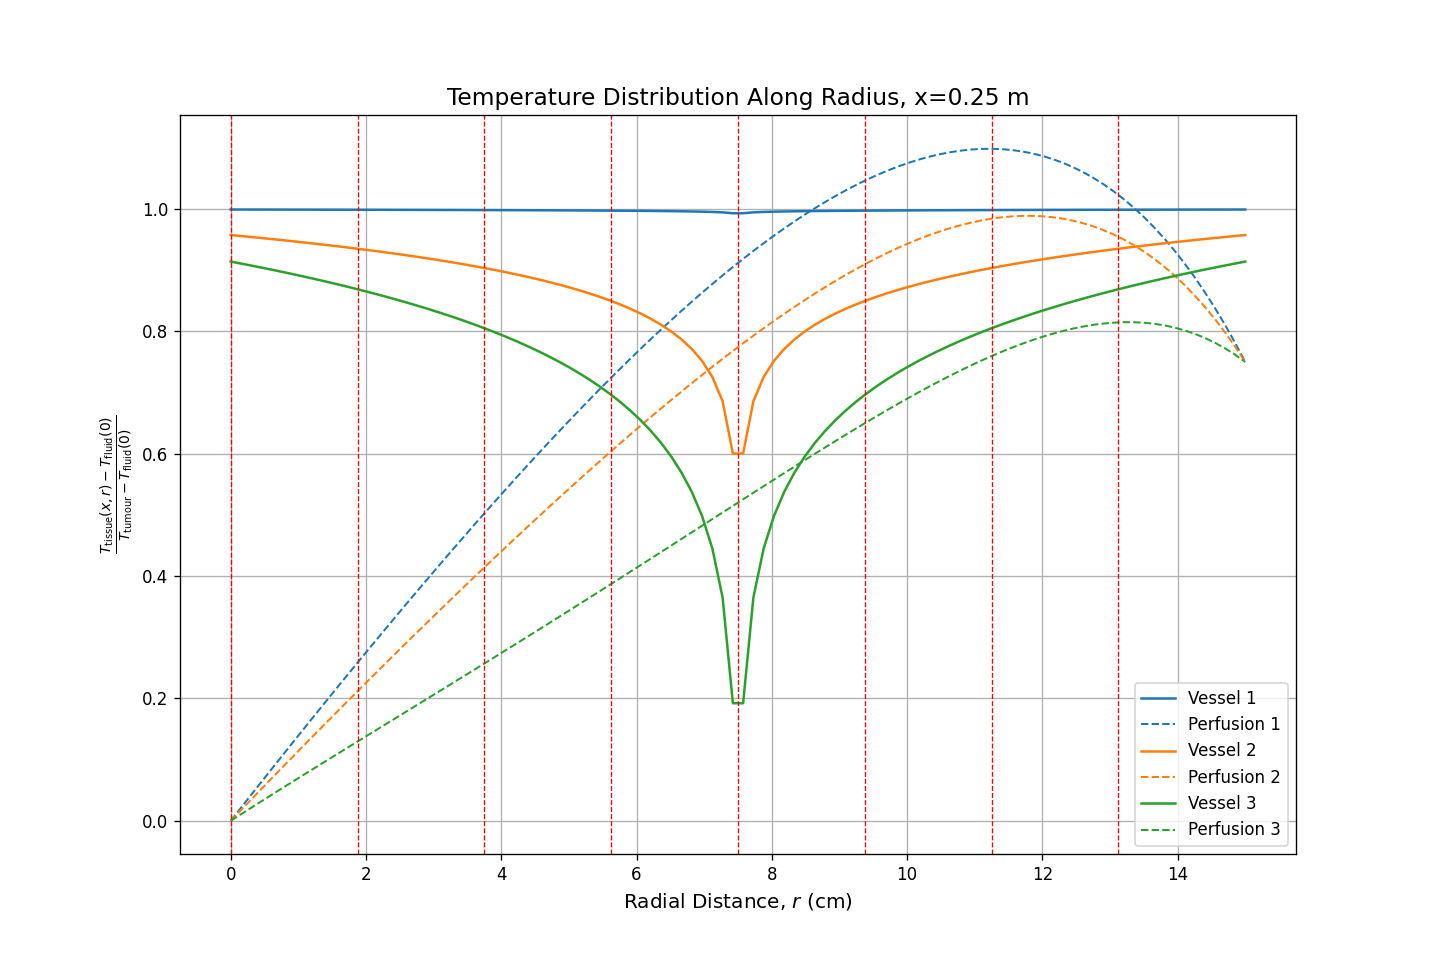
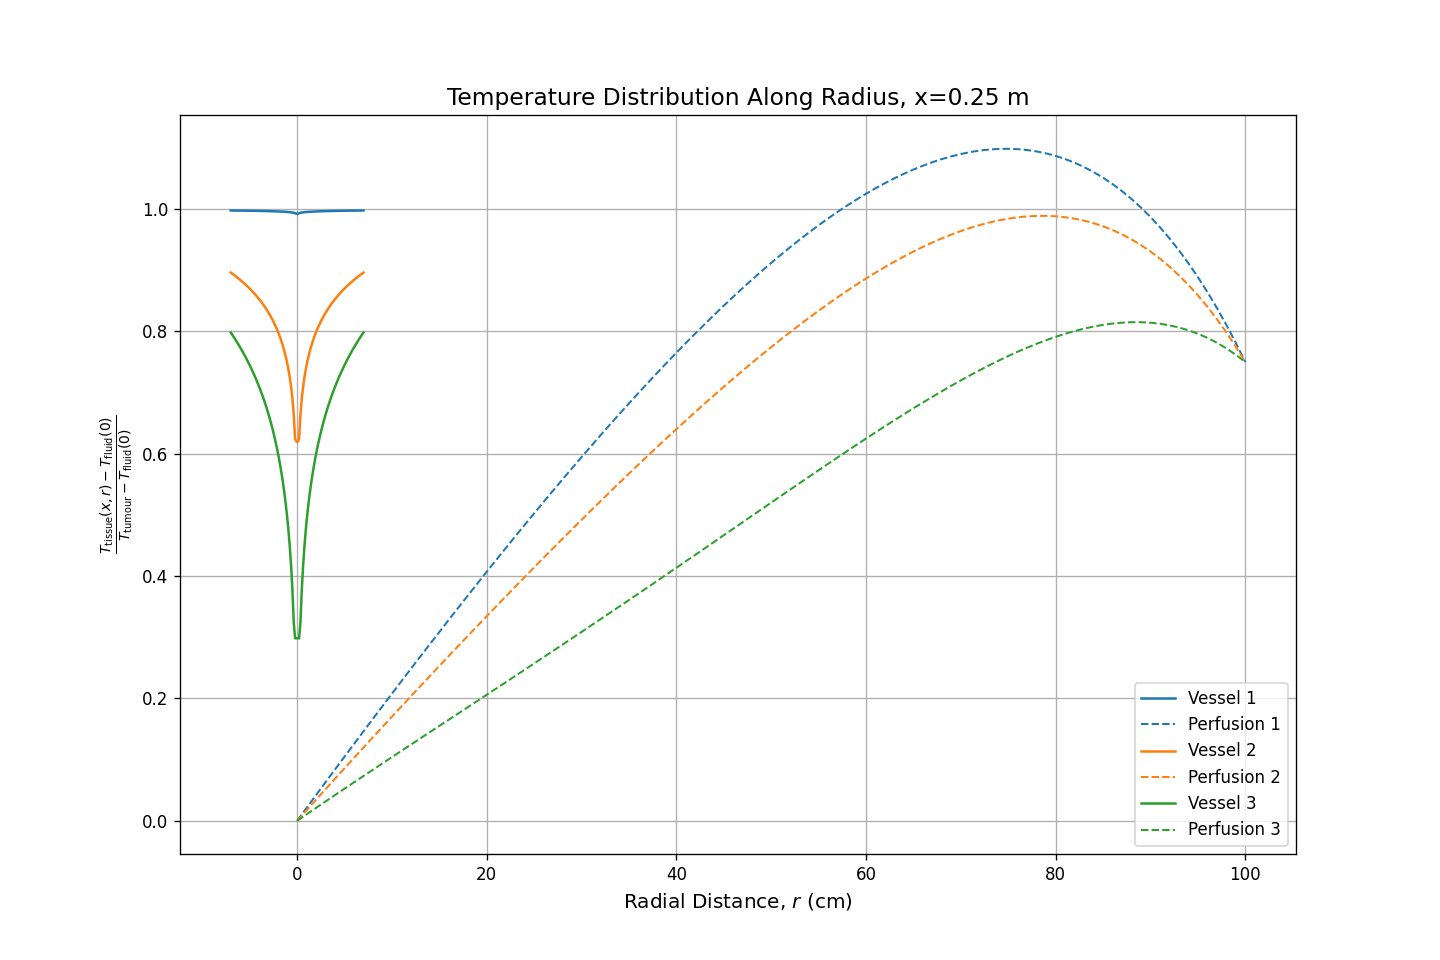
working

diff --git a/src/cartesian_ratio_along_vessel.py b/src/cartesian_ratio_along_vessel.py
@@ -23,17 +23,18 @@ T_fluid_initial = 37  # initial fluid temperature in °C
 # Calculate step size
 dx = L / N
 x = np.linspace(0, L, N)
-R2 = 7.5/100
 
 # Function to calculate temperature distribution for a vessel
-def vessel_temperature_distribution(v, R1):
+def vessel_temperature_distribution(v, R1, yv):
     # Heat transfer coefficient (h)
     h = 3.66 * k / (2 * R1)
+    R2 = L0-yv
 
     # Resistances
     R_w = 1 / (2 * np.pi * R1 * h * dx)
     R_t = np.log(R2 / R1) / (2 * np.pi * k * dx)
     R_f = 1 / (np.pi * (R1 ** 2) * v * cfl * rho)
+
 
     # Arrays to store temperature values
     T_fluid = np.zeros(N)
@@ -52,7 +53,6 @@ def vessel_temperature_distribution(v, R1):
         Q[i+1] = (T_tumour-T_fluid[i + 1])/(R_f+R_w+R_t)
         T_wall[i + 1] = T_fluid[i+1] + Q[i+1]*R_f
     
-    # df = pd.DataFrame({'x':x, 't_fluid':T_fluid, 't_wall':T_wall, 'Q': Q})
     df = np.vstack((x, T_fluid, T_wall, Q))
 
     return df
@@ -61,21 +61,20 @@ def scale_t(t):
     return (t - T_fluid_initial) / (T_tumour - T_fluid_initial)
 
 
-# Define the temperature_distribution function
-def temperature_distribution(v, R1, xcc):
+def temperature_distribution(v, R1, xcc, yv):
     r = np.linspace(0, L0, 100) 
     # Calculate normalized temperature difference
-    df1 = vessel_temperature_distribution(v, R1)
+    df1 = vessel_temperature_distribution(v, R1, yv)
     x_vals, t_fluid, t_wall, q = df1[0], df1[1], df1[2], df1[3]
 
     x_index = np.argmin(np.abs(x_vals - xcc))
     T_fluid = t_fluid[x_index]
     T_wall = t_wall[x_index]
-    r_trnsl = r - L0/2
+    r_trnsl = r - yv
     T_tissue = T_wall + q[x_index] * ((np.log(np.abs(r_trnsl) / R1) / (2 * np.pi * k * dx)))
 
-    T = np.where(r <= L0/2 - R1, T_tissue,
-                np.where((L0/2 - R1 < x) & (x <= L0/2 + R1), T_fluid,
+    T = np.where(r <= yv - R1, T_fluid_initial +(r/yv)*(T_fluid - T_fluid_initial),
+                np.where((yv - R1 < r) & (r <= yv + R1), T_fluid,
                         T_tissue))
     return T
 
@@ -92,11 +91,13 @@ v_vessel2 = 1.5 / 100  # velocity in m/s
 # Vessel 3 Parameters
 R1_vessel3 = 1.5 / 1000  # radius in meters
 v_vessel3 = 2.0 / 100  # velocity in m/s
+y_tc = np.linspace(0, 1, 8).round(2)* L0
+yv = y_tc[5]
 
 # Calculate temperature distribution for each vessel
-dd1 = vessel_temperature_distribution(v_vessel1, R1_vessel1)
-dd2 = vessel_temperature_distribution(v_vessel2, R1_vessel2)
-dd3 = vessel_temperature_distribution(v_vessel3, R1_vessel3)
+dd1 = vessel_temperature_distribution(v_vessel1, R1_vessel1, yv)
+dd2 = vessel_temperature_distribution(v_vessel2, R1_vessel2, yv)
+dd3 = vessel_temperature_distribution(v_vessel3, R1_vessel3, yv)
 
 temp_vessel1, temp_vessel2, temp_vessel3 = dd1[1], dd2[1], dd3[1]
 
@@ -110,13 +111,13 @@ xgr = 25/100  # x-axis (length along vessel in cm)
 r = np.linspace(0, L0, 100)  # radial axis (from -1 cm to 1 cm)
 
 # Calculate normalized temperature difference
-T_distribution_v1 = temperature_distribution(v_vessel1, R1_vessel1, xgr)
+T_distribution_v1 = temperature_distribution(v_vessel1, R1_vessel1, xgr, yv)
 T_normalized_v1 = scale_t(T_distribution_v1)
 
-T_distribution_v2 = temperature_distribution(v_vessel2, R1_vessel2, xgr)
+T_distribution_v2 = temperature_distribution(v_vessel2, R1_vessel2, xgr, yv)
 T_normalized_v2 = scale_t(T_distribution_v2)
 
-T_distribution_v3 = temperature_distribution(v_vessel3, R1_vessel3, xgr)
+T_distribution_v3 = temperature_distribution(v_vessel3, R1_vessel3, xgr, yv)
 T_normalized_v3 = scale_t(T_distribution_v3)
 
 # print(T_normalized_v1[0], T_normalized_v2[0], T_normalized_v3[0])
@@ -134,25 +135,25 @@ vessel3_matlab = a[:, 3]
 
 
 # Plot results
-# plt.figure(figsize=(10, 5))
-# x_values = np.linspace(0, 100 * L, N)
+plt.figure(figsize=(10, 5))
+x_values = np.linspace(0, 100 * L, N)
 
-# # Plot each vessel
-# plt.plot(x_values, temp_ratio_vessel1, label='Vessel 1')
-# plt.plot(x_values, temp_ratio_vessel2, label='Vessel 2')
-# plt.plot(x_values, temp_ratio_vessel3, label='Vessel 3')
+# Plot each vessel
+plt.plot(x_values, temp_ratio_vessel1, label='Vessel 1')
+plt.plot(x_values, temp_ratio_vessel2, label='Vessel 2')
+plt.plot(x_values, temp_ratio_vessel3, label='Vessel 3')
 
-# # Directly label the lines
-# plt.text(100 * L - 5, temp_ratio_vessel1[-1] + 0.01, 'Vessel 1', fontsize=12, color='C0')
-# plt.text(100 * L - 5, temp_ratio_vessel2[-1] + 0.01, 'Vessel 2', fontsize=12, color='C1')
-# plt.text(100 * L - 5, temp_ratio_vessel3[-1] + 0.01, 'Vessel 3', fontsize=12, color='C2')
+# Directly label the lines
+plt.text(100 * L - 5, temp_ratio_vessel1[-1] + 0.01, 'Vessel 1', fontsize=12, color='C0')
+plt.text(100 * L - 5, temp_ratio_vessel2[-1] + 0.01, 'Vessel 2', fontsize=12, color='C1')
+plt.text(100 * L - 5, temp_ratio_vessel3[-1] + 0.01, 'Vessel 3', fontsize=12, color='C2')
 
-# plt.xlabel(r'Location along the vessel, $x$ (cm)', fontsize=12)
-# plt.ylabel(r'$\frac{T_{\text{fluid}}(x)-T_{\text{fluid}}(0)}{T_{\text{tumour}}-T_{\text{fluid}}(0)}$', fontsize=15)
-# plt.title('Temperature Ratio as a Function of Location Along Vessels', fontsize=14)
-# plt.grid(True)
-# plt.savefig(f"{src_dir}/data/simulations/t_ratio_along_vessel.png", dpi=120)
-# plt.show()
+plt.xlabel(r'Location along the vessel, $x$ (cm)', fontsize=12)
+plt.ylabel(r'$\frac{T_{\text{fluid}}(x)-T_{\text{fluid}}(0)}{T_{\text{tumour}}-T_{\text{fluid}}(0)}$', fontsize=15)
+plt.title('Temperature Ratio as a Function of Location Along Vessels', fontsize=14)
+plt.grid(True)
+plt.savefig(f"{src_dir}/data/simulations/cart_ratio_along_vessel.png", dpi=120)
+plt.show()
 
 # Plot the temperature distribution
 fig = plt.figure(figsize=(12, 8))
@@ -165,15 +166,17 @@ ax.plot(r*100, T_normalized_v3, color='C2', label='Vessel 3', linewidth=1.5)
 ax.plot(x_values_matlab*100, vessel3_matlab, color='C2', label='Perfusion 3', linewidth=1.2, linestyle="--")
 
 # Add 8 equally spaced dashed vertical lines from 0 to 1
-for i in range(8):
-    ax.axvline(i *L0*100/ 8, color='r', linestyle='--', linewidth=0.8)
+for i in y_tc:
+    ax.axvline(100*i, color='r', linestyle='--', linewidth=0.8)
 
+ax.set_xticks(100 * np.array(y_tc))
+ax.set_xticklabels([f"{100 * i:.2f}" for i in y_tc], fontsize=10)
 # Customize the plot
-ax.set_xlabel('Radial Distance, $r$ (cm)', fontsize=12)
+ax.set_xlabel('Height, $y$ (cm)', fontsize=12)
 ax.set_ylabel(r'$\frac{T_{\text{tissue}}(x, r) - T_{\text{fluid}}(0)}{T_{\text{tumour}} - T_{\text{fluid}}(0)}$', fontsize=12)
-ax.set_title(f'Temperature Distribution Along Radius, x={xgr} m', fontsize=14)
+ax.set_title(f'Temperature Distribution Along Height, x={xgr} m', fontsize=14)
 
 ax.legend()
 plt.grid(True)
-plt.savefig(f"{src_dir}/data/simulations/t_ratio_along_radius.png", dpi=120)
+plt.savefig(f"{src_dir}/data/simulations/cart_ratio_along_radius.png", dpi=120)
 plt.show()

diff --git a/src/simple_script.m b/src/simple_script.m
@@ -119,7 +119,7 @@ end
 
 function [pl, ql, pr, qr] = OneDimBHbc(xl, ul, xr, ur, t)
     theta0 = 0;
-    theta1 = 0.75;
+    theta1 = 0.9;
     % Left boundary conditions (Dirichlet: u = 1)
     pl = [ul(1) - theta0; ul(2) - theta0; ul(3) - theta0]; % pl = ul - desired_value
     ql = zeros(3, 1); % ql = 0 for Dirichlet
